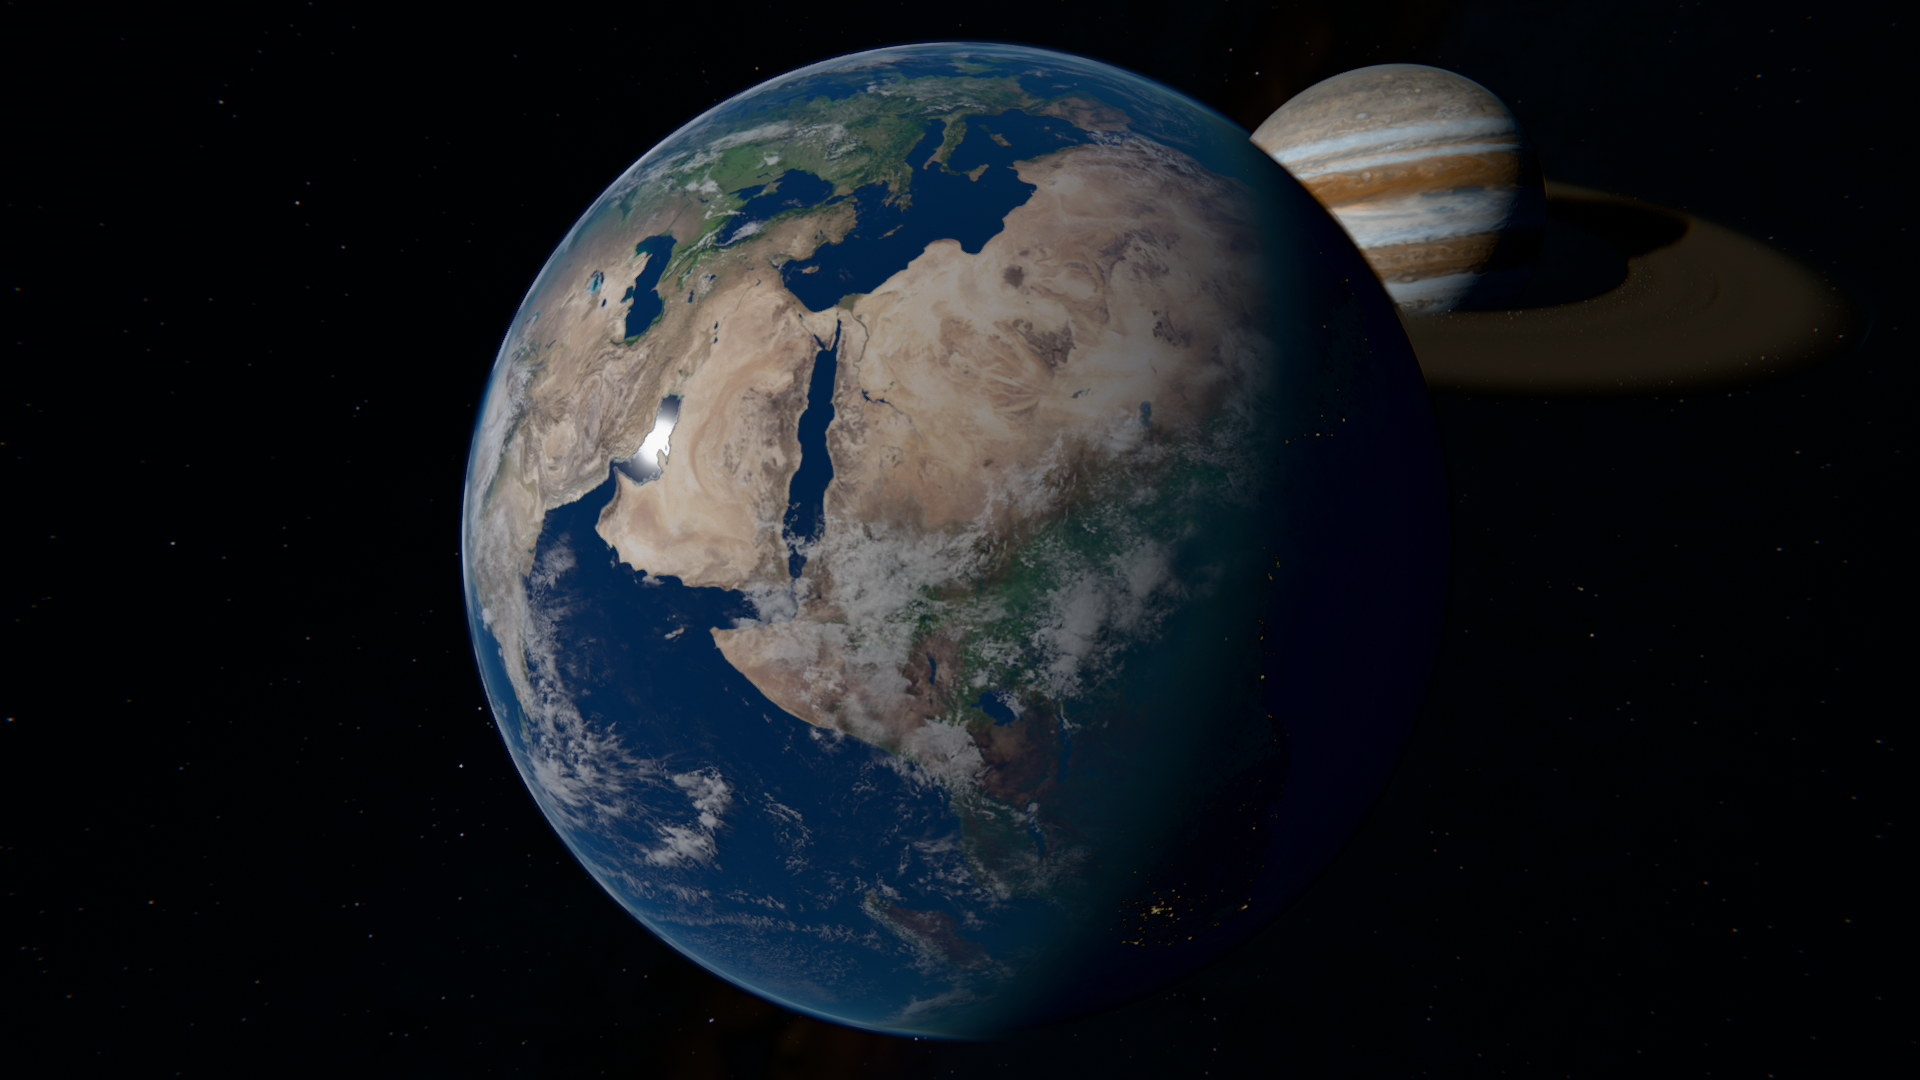
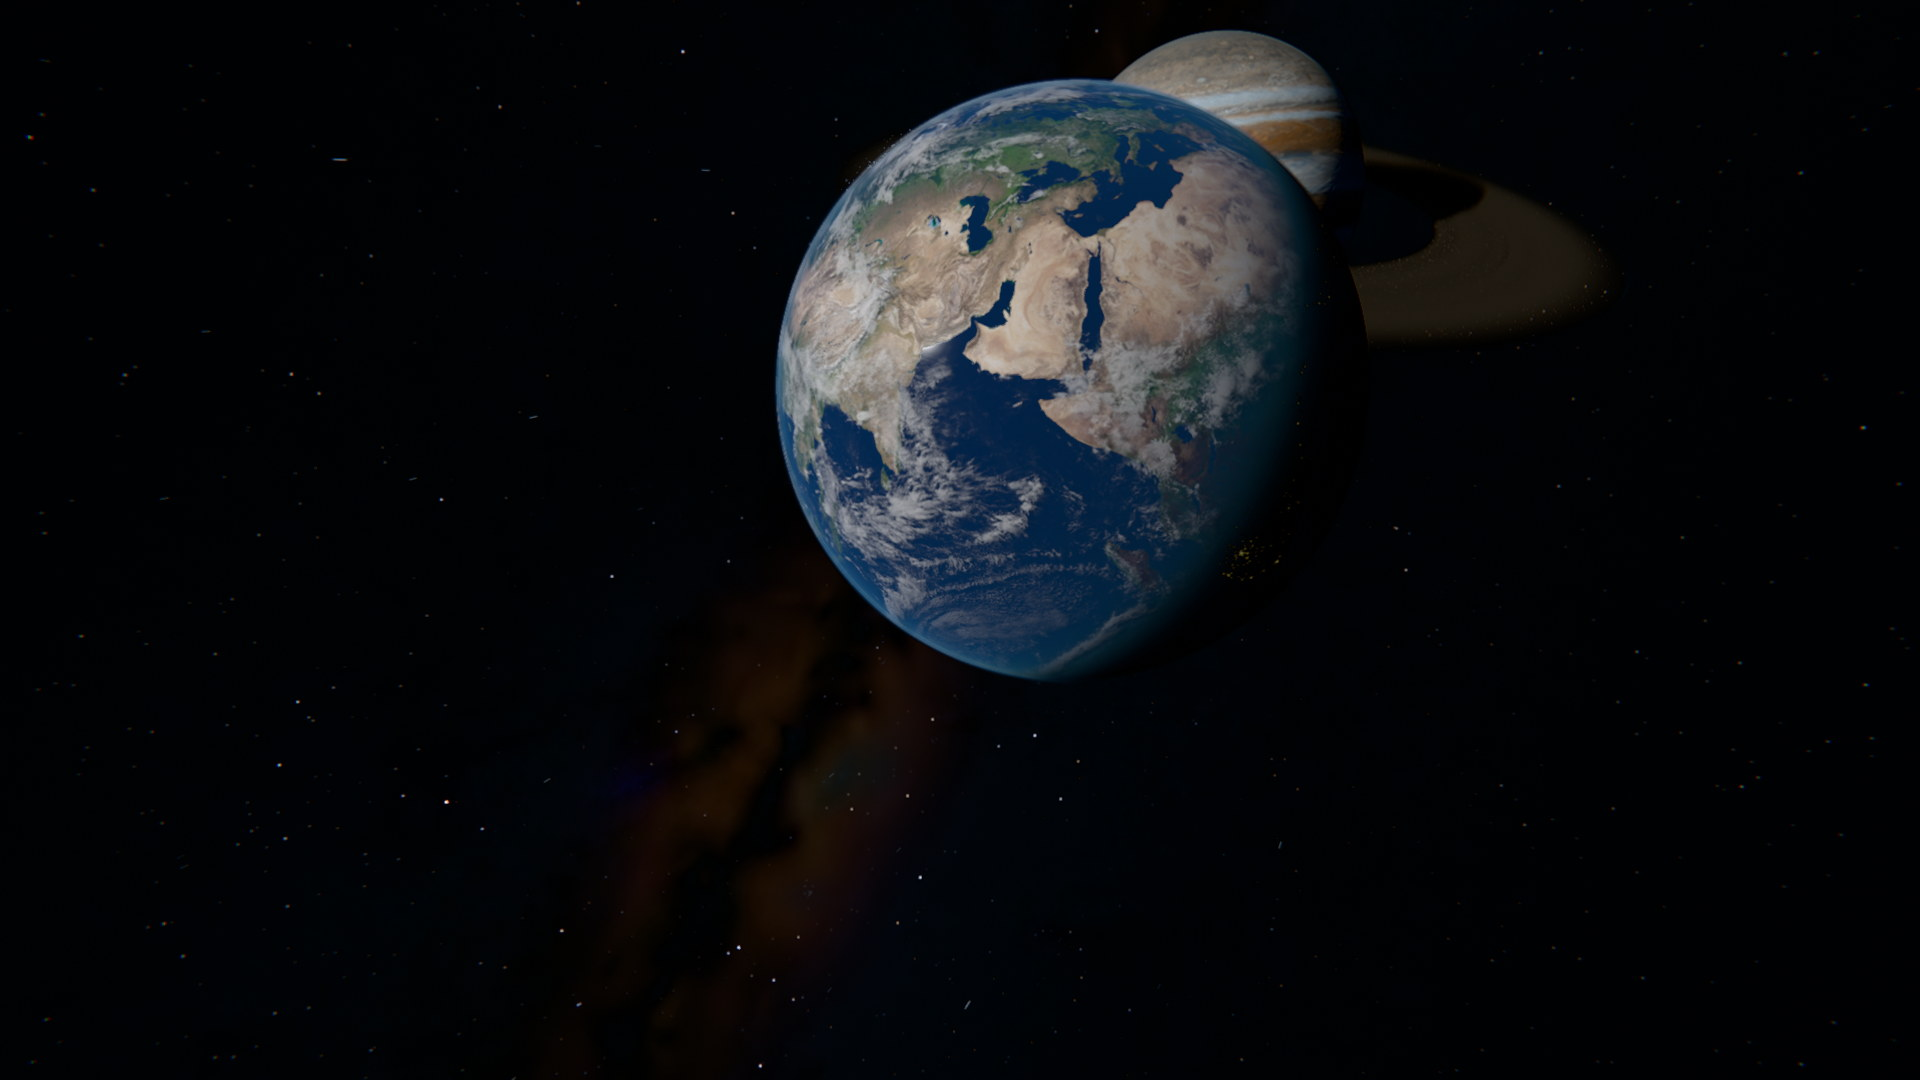
fix(planets): black night side: night map floor, ambient fill control
The Earth's night side was a blue disc under the city lights, posterized,
even with no sun or flare in frame. Three sources: the night map's blue
floor over the whole globe, which the neutral curve keeps since its
offset takes the darkest channel and whose BC7 blocks were the
posterization; the surface shading's constant starlight fill, blue on
the ocean; and the cloud layer's own fill. The Earth shader subtracts
the map's floor and gates the residue below the lights' level, and both
fills follow a new Ambient fill control in Sun & lens, default 0.25.
README screenshots re-rendered.

diff --git a/shaders/scene_shared.h b/shaders/scene_shared.h
@@ -50,7 +50,7 @@ struct Frame {
     SHADER_FLOAT4 scene;       // body count, giant body index, belt transmittance map on, belt extinction on
     SHADER_MATRIX4 belt_light_projection; // orthographic box over the whole belt from the sun
     SHADER_FLOAT4 belt_light;  // box half width, half height, map texels, half span of the slice range along the light
-    SHADER_FLOAT4 quality;     // temporal anti-aliasing on, tone curve (0 ACES filmic, 1 AgX, 2 PBR Neutral), belt dust on, unused
+    SHADER_FLOAT4 quality;     // temporal anti-aliasing on, tone curve (0 ACES filmic, 1 AgX, 2 PBR Neutral), belt dust on, ambient fill on shadow sides
     SHADER_FLOAT4 dust;        // belt dust multipliers: density (extinction), brightness (albedo), far-view scale, saturation
     SHADER_FLOAT4 dust_tint;   // multiplies the dust colour, w unused
     SHADER_MATRIX4 belt_disc_projection; // orthographic box over the belt plane, for the far-belt maps

diff --git a/src/render/renderer_frame_data.cpp b/src/render/renderer_frame_data.cpp
@@ -131,7 +131,7 @@ FrameData Renderer::Impl::build_frame(const FrameInput& input) {
     frame.scene = {float(body_count), float(showcase.giant()), input.belt.light_map ? 1.f : 0.f,
                    input.belt.extinction ? 1.f : 0.f};
     frame.quality = {input.aa.temporal_aa ? 1.f : 0.f, float(input.tone.tone_curve),
-                     input.belt_dust.enabled ? 1.f : 0.f, 0};
+                     input.belt_dust.enabled ? 1.f : 0.f, input.sun.ambient_fill};
     frame.dust = {input.belt_dust.density, input.belt_dust.brightness, input.belt_dust.far, input.belt_dust.saturation};
     frame.dust_tint = {input.belt_dust.tint[0], input.belt_dust.tint[1], input.belt_dust.tint[2], 0};
     frame.earth = {input.earth.ocean_roughness, input.earth.glint_intensity, input.earth.cloud_shadow,

diff --git a/src/app/ui_panel.cpp b/src/app/ui_panel.cpp
@@ -185,6 +185,7 @@ void earth_controls(render::EarthSettings& settings) {
         settings = {};
 }
 void sun_lens_controls(render::SunSettings& settings) {
+    ImGui::SliderFloat("Ambient fill", &settings.ambient_fill, 0.f, 2.f, "%.2f x"); // starlight on shadow sides
     ImGui::SliderFloat("Glare", &settings.glare_intensity, 0.f, 4.f, "%.2f x");
     ImGui::SliderFloat("Starburst", &settings.starburst_strength, 0.f, 4.f, "%.2f x");
     ImGui::SliderInt("Starburst blades", &settings.starburst_blades, 0, 12);

diff --git a/src/render/settings.hpp b/src/render/settings.hpp
@@ -61,6 +61,8 @@ struct EarthSettings {
 };
 
 struct SunSettings {
+    float ambient_fill =
+        .25f; // starlight fill on shadow sides (1 the former constant); a blue veil on Earth's night at 1
     float glare_intensity = 1.f;    // the glow around the sun
     float starburst_strength = 1.f; // aperture streaks through the sun
     int starburst_blades = 6;       // streak count, 0 for none

diff --git a/docs/DECISIONS.md b/docs/DECISIONS.md
@@ -218,3 +218,5 @@ demo now builds and renders on the Linux PC. Setup and repeatable commands are i
 - 2026-09-14: The belt view had lost its contrast since the first screenshots (darkest percentile 0.7 to 8 display codes, median 7 to 26). A build-and-capture sweep over fifteen commits put nearly all of it on one step: the neutral curve's black offset factor going to 0.3 on Sep 13 (median 7 to 22), which stopped crushing the belt's dust haze; the lens halo and the flare stack added about two codes each, exposure and adaptation nothing at the median, the Milky Way within a code. The default returns to the published 1.0: the belt matches the old screenshot again and the giant's shadow side is crisp, at the cost of the Milky Way band, which the published subtraction nearly removes (0.7 keeps more of it with the belt still hazy); the Black offset slider covers the range for review. The other exposure constants became Tone panel controls so the trade can be made live: the meter key (0.18), the adaptation range (0.6 to 1.8) and the per-curve exposure trim (ACES 1, AgX 0.37, PBR Neutral 0.75, each curve keeping its own). The README screenshots are re-rendered at the new default.
 
 - 2026-09-14: The veil separation in the tone map is reverted. Taking the neutral curve's black offset from the scene alone and adding the lens veil after it had removed the creases under coloured flare bands, but it also stopped the published curve from subtracting the sun's broad glare, which is the flare subtraction the curve is for: on the Dawn view the Earth's night side under the glare rose from a median of 8 display codes to 24 and turned a flat blue-grey under the city lights, and the belt from 7 to 17 even with the flare off. With the veil back inside the curve at the published offset the night side measures as the Sep 11 screenshot did (darkest percentile 2.0 against 1.7, median 8.0 against 7.7, the same warm dark tint) and the belt's median is 8.7 against 7.3. The creases the separation addressed are the curve's own behaviour on faint coloured light and are much reduced at the published offset, where such bands are mostly crushed; the Saturation control in Sun & lens is the remaining knob. README screenshots re-rendered.
+
+- 2026-09-14: The Earth's night side was a blue disc under the city lights, posterized, even with no sun or flare in frame (a view from behind the planet measured 0.8, 2.2, 16.2 mean RGB over the dark disc). Three sources, found by muting them in turn: the Solar System Scope night map carries a blue floor over the whole globe (4, 6, 20 sRGB codes on the ocean, up to 16 codes of faint cloud and land texture) that the neutral curve keeps at full strength because its offset takes the darkest channel, and BC7 blocks of that floor were the posterization; the shared surface shading adds a constant starlight fill of albedo times (0.003, 0.004, 0.008) to every surface, blue on the ocean; and the cloud layer adds its own (0.002, 0.004, 0.008). The Earth shader now subtracts the map's floor at its 90th percentile and gates what is left below the lights' level, so the night side is black but for the lights; both fills follow a new Ambient fill control in Sun & lens (1 the former constants), default 0.25, which leaves a trace of shape on asteroid shadow sides and a faint cloud cover on the night side (0.9, 1.1, 1.9 mean RGB; 0 gives 0.9, 0.8, 0.5). ACES had hidden all three under its toe, which is why the problem read as a tone curve one. README screenshots re-rendered.
